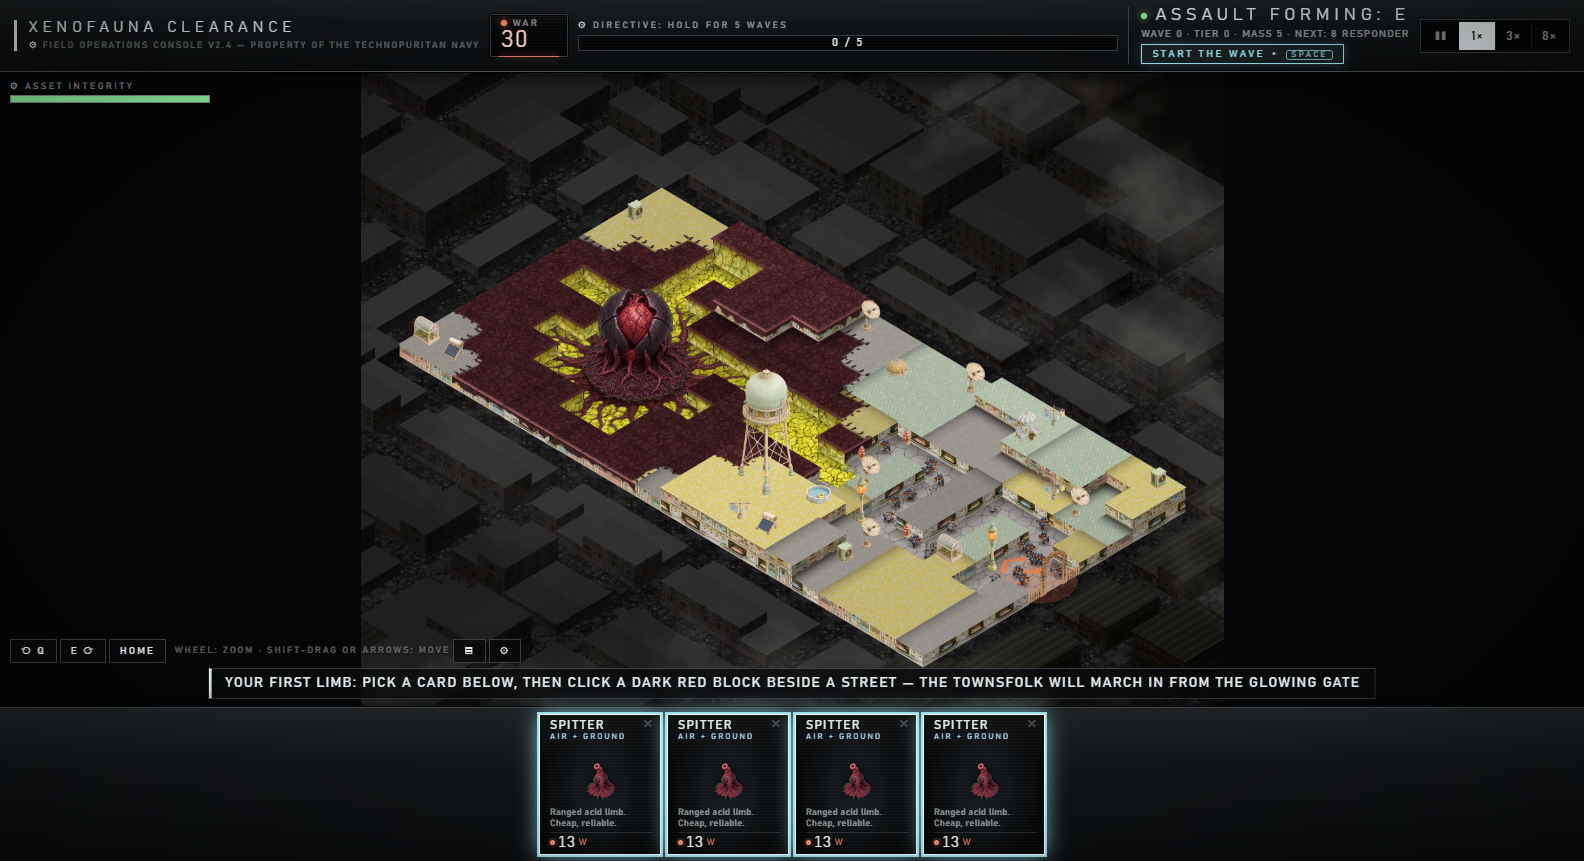
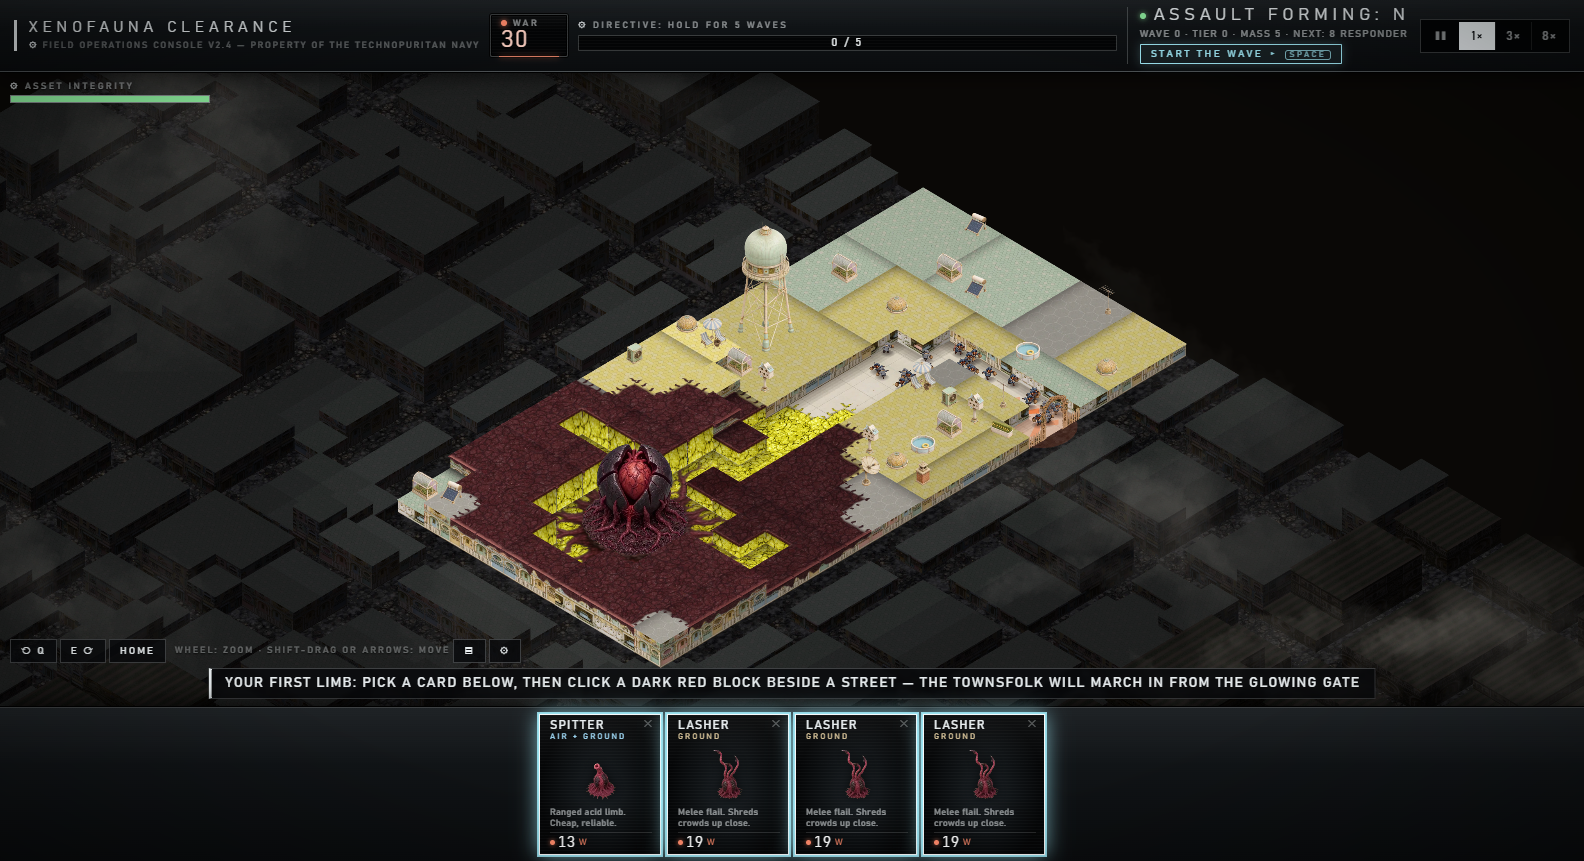
Broodfall: bug hunt results page (notes/screens/2026-11-22/bughunt.html) and its pictures
Before/after for each fix, the landing handoff checked at three sizes, the desktop start check (PASS) and the notes.

diff --git a/games/broodfall/notes/screens/2026-11-22/bughunt.html b/games/broodfall/notes/screens/2026-11-22/bughunt.html
@@ -1,0 +1,124 @@
+<!doctype html>
+<html lang="en">
+<head>
+<meta charset="utf-8">
+<meta name="viewport" content="width=device-width, initial-scale=1">
+<title>Broodfall bug hunt</title>
+<style>
+  :root { --bg: #111214; --card: #1b1d21; --ink: #e9e6df; --dim: #a3a09a; --line: #2e3137; --ok: #4fbf72; --warn: #e0a64b; --bad: #e3625a; }
+  * { box-sizing: border-box; }
+  body { margin: 0; background: var(--bg); color: var(--ink); font: 16px/1.5 "Segoe UI", system-ui, sans-serif; }
+  main { max-width: 1500px; margin: 0 auto; padding: 28px 20px 60px; }
+  h1 { font-size: 28px; margin: 0 0 4px; letter-spacing: 1px; }
+  h2 { font-size: 21px; margin: 44px 0 6px; border-top: 1px solid var(--line); padding-top: 22px; }
+  .sub { color: var(--dim); margin: 0 0 22px; }
+  .short { background: var(--card); border: 1px solid var(--line); border-radius: 8px; padding: 14px 18px; margin-bottom: 26px; }
+  table { border-collapse: collapse; width: 100%; background: var(--card); border-radius: 8px; overflow: hidden; }
+  th, td { text-align: left; padding: 10px 14px; border-bottom: 1px solid var(--line); vertical-align: top; }
+  th { color: var(--dim); font-weight: 600; font-size: 13px; letter-spacing: 1px; text-transform: uppercase; }
+  .v { font-weight: 700; white-space: nowrap; }
+  .v.ok { color: var(--ok); } .v.warn { color: var(--warn); } .v.bad { color: var(--bad); }
+  .pair { display: grid; grid-template-columns: 1fr 1fr; gap: 14px; margin-top: 12px; }
+  .pair.one { grid-template-columns: 1fr; }
+  figure { margin: 0; background: var(--card); border: 1px solid var(--line); border-radius: 8px; padding: 10px; }
+  figure img { width: 100%; display: block; border-radius: 4px; }
+  figcaption { font-size: 13px; color: var(--dim); margin-top: 8px; }
+  .tag { display: inline-block; font-size: 12px; font-weight: 700; letter-spacing: 1px; padding: 2px 8px; border-radius: 4px; margin-right: 6px; }
+  .tag.b { background: #4a2523; color: #ffb4ad; } .tag.a { background: #1f4229; color: #a8f0bd; } .tag.x { background: #3d3420; color: #f1d39b; }
+  ul { margin: 6px 0; padding-left: 20px; }
+  .tech { color: var(--dim); font-size: 13px; margin-top: 50px; }
+  @media (max-width: 800px) { .pair { grid-template-columns: 1fr; } }
+</style>
+</head>
+<body>
+<main>
+<h1>Broodfall: bug hunt</h1>
+<p class="sub">November 22, 2026. I played it in the real page with real clicks and keys at 1366×768, 1920×1080 and your 2781×1401: a new campaign through mission 1, the reveal, the ship and a deployment, skirmishes through the organ stage and a district draft, Settings, save and exit, resume, every room aboard, the codex, comics and a full run to victory. No console errors and no missing files anywhere.</p>
+
+<div class="short">
+<b>Short version.</b> The biggest problem was the board itself. It was a fixed-size picture shrunk into the middle of the window, so on your screen it used less than half the width. It now fills the window, and the landing film still lands exactly on it. I also fixed five smaller things where the screen said something wrong or hid what you were doing. Everything is pushed to main. Nothing here needs a decision from you.
+</div>
+
+<table>
+<tr><th>#</th><th>Problem</th><th>Verdict</th></tr>
+<tr><td>1</td><td>The board did not fill the window: a fixed picture in the middle with black on both sides (1360 of 2781 pixels across on your screen)</td><td class="v ok">Fixed</td></tr>
+<tr><td>1b</td><td>After fix 1, the landing film's last frame would have landed in the wrong place on the board, which would have brought back the snap you reported</td><td class="v ok">Fixed</td></tr>
+<tr><td>2</td><td>On the organ stage the summary said "GUT LV3" while the Gut's card said LV 1, with nothing explaining the difference</td><td class="v ok">Fixed</td></tr>
+<tr><td>3</td><td>While a district draft was open, the line under the board said "WAVE SETUP: place limbs, then START THE WAVE (Space)", but Space does nothing there</td><td class="v ok">Fixed</td></tr>
+<tr><td>4</td><td>The "WAVE 3 CLEARED · +57 CHYME" banner sat on top of the district you were placing</td><td class="v ok">Fixed</td></tr>
+<tr><td>5</td><td>After you change the turn keys in Settings, the turn buttons still said Q and E</td><td class="v ok">Fixed</td></tr>
+<tr><td>6</td><td>At 1366×768 the top bar cut words off: "DIRECTIVE: DESTROY THE…" and "NEXT: 8 RESPON…"</td><td class="v ok">Fixed</td></tr>
+<tr><td>—</td><td>Two automatic tests were failing because of the other session's unfinished Rumen work</td><td class="v ok">Fixed by that session; all tests pass</td></tr>
+</table>
+
+<h2>1. The board now fills the window</h2>
+<p>The board was always drawn as a fixed 1360×1000 picture and then shrunk to fit, so on wide windows it sat in a column with black on both sides. On your screen it used 1360 of 2781 pixels across. Now the board fills the window at every size, and the city looks bigger on your screen. Clicking, zooming and turning work the same as before, and it runs just as smoothly: 60 frames a second in a wave on your window size, the same as the old fixed board.</p>
+<div class="pair">
+  <figure><img src="bughunt-01-board-2781-BEFORE.jpg" alt=""><figcaption><span class="tag b">BEFORE</span>2781×1401, your screen: the board in a column in the middle</figcaption></figure>
+  <figure><img src="bughunt-01-board-2781-AFTER.jpg" alt=""><figcaption><span class="tag a">AFTER</span>2781×1401: the board fills the window</figcaption></figure>
+  <figure><img src="bughunt-01-board-1366-BEFORE.jpg" alt=""><figcaption><span class="tag b">BEFORE</span>1366×768: the board was 711 pixels wide</figcaption></figure>
+  <figure><img src="bughunt-01-board-1366-AFTER.jpg" alt=""><figcaption><span class="tag a">AFTER</span>1366×768</figcaption></figure>
+</div>
+
+<h2>1b. The landing film still lands exactly on the board</h2>
+<p>Each landing film ends on a picture of the board as the old fixed board showed it. When the film ends, that picture has to sit exactly on top of the live board, or you get the snap you reported earlier today. Fix 1 changed the board's size, so I changed the handoff to work from how large the board is actually drawn now, with the film's crater pinned on the live meteor. To check it, I laid the film's last frame over the live board at half strength. The pictures below show where the old calculation would have put it and where the new one does. Where the two line up exactly, you see one board and no double image.</p>
+<div class="pair">
+  <figure><img src="bughunt-01b-landing-1920-unadjusted.jpg" alt=""><figcaption><span class="tag x">OLD CALCULATION ON THE NEW BOARD</span>1920×1080: a double image, the film far too big and in the wrong place</figcaption></figure>
+  <figure><img src="bughunt-01b-landing-1920-AFTER.jpg" alt=""><figcaption><span class="tag a">AFTER</span>1920×1080: the film's last frame (inside the green box) lies exactly on the board</figcaption></figure>
+  <figure><img src="bughunt-01b-landing-2781-unadjusted.jpg" alt=""><figcaption><span class="tag x">OLD CALCULATION ON THE NEW BOARD</span>2781×1401</figcaption></figure>
+  <figure><img src="bughunt-01b-landing-2781-AFTER.jpg" alt=""><figcaption><span class="tag a">AFTER</span>2781×1401: exact</figcaption></figure>
+</div>
+<div class="pair one">
+  <figure><img src="bughunt-01b-landing-1366-handoff.jpg" alt=""><figcaption><span class="tag a">AFTER</span>1366×768, mid-handoff, captured while the film fades into the board: you cannot see where one ends and the other begins</figcaption></figure>
+</div>
+
+<h2>2. The organ stage now says why an organ is above its card's level</h2>
+<p>In mission 1 the Gut sits on a Sewer Main, which it favours, and that adds two levels. Its card showed the level you bought (LV 1), while the summary under the board showed the total (LV3), so the two numbers looked like a mistake. The summary now says where the extra levels come from: "GUT LV3 (LV1 bought, +2 from the Sewer Main)". A heart's zone is named the same way.</p>
+<div class="pair">
+  <figure><img src="bughunt-02-organ-summary-BEFORE.jpg" alt=""><figcaption><span class="tag b">BEFORE</span>The Bone Forge card says LV 1 and the summary says "BONE FORGE LV2", with no reason given</figcaption></figure>
+  <figure><img src="bughunt-02-organ-summary-AFTER.jpg" alt=""><figcaption><span class="tag a">AFTER</span>"GUT LV3 (LV1 bought, +2 from the Sewer Main)"</figcaption></figure>
+</div>
+
+<h2>3. The line under the district draft no longer tells you to start the wave</h2>
+<p>While "The body is ready to grow" was open, the line under the board still showed the wave-setup instruction from before the wave. It now says to choose a district and place it, and it updates whenever the game moves to the next stage.</p>
+<div class="pair">
+  <figure><img src="bughunt-03-hint-line-BEFORE.png" alt=""><figcaption><span class="tag b">BEFORE</span>"WAVE SETUP: place limbs, then START THE WAVE (Space)" under the draft</figcaption></figure>
+  <figure><img src="bughunt-03-hint-line-AFTER.png" alt=""><figcaption><span class="tag a">AFTER</span>"THE BODY IS READY TO GROW: choose a district above, then place it on the board (R turns it)"</figcaption></figure>
+  <figure><img src="bughunt-03-draft-hint-BEFORE.jpg" alt=""><figcaption><span class="tag b">BEFORE</span>The whole screen (mission 1)</figcaption></figure>
+  <figure><img src="bughunt-03-draft-hint-AFTER.jpg" alt=""><figcaption><span class="tag a">AFTER</span>The whole screen (skirmish)</figcaption></figure>
+</div>
+
+<h2>4. The wave banner no longer covers the district you are placing</h2>
+<p>When you picked up a district card, the "wave cleared" banner stayed across the middle of the board, right over the green district you were placing. Picking up the card now clears the banner.</p>
+<div class="pair">
+  <figure><img src="bughunt-04-banner-over-ghost-BEFORE.jpg" alt=""><figcaption><span class="tag b">BEFORE</span>The banner over the district in hand</figcaption></figure>
+  <figure><img src="bughunt-04-banner-over-ghost-AFTER.jpg" alt=""><figcaption><span class="tag a">AFTER</span>The same moment, with the board clear</figcaption></figure>
+</div>
+
+<h2>5. The turn buttons show the keys you chose</h2>
+<p>In Settings I changed the turn key from Q to Z. Z turned the view and Q stopped doing anything, but the buttons beside the board still said Q. They now show the keys you set, and so does the hint for the big limbs.</p>
+<div class="pair">
+  <figure><img src="bughunt-05-turn-keys-BEFORE.png" alt=""><figcaption><span class="tag b">BEFORE</span>Turn key set to Z, button still says Q</figcaption></figure>
+  <figure><img src="bughunt-05-turn-keys-AFTER.png" alt=""><figcaption><span class="tag a">AFTER</span>The button says Z</figcaption></figure>
+</div>
+
+<h2>6. The top bar at 1366×768 shows the directive and the next wave in full</h2>
+<p>The game's title kept its space and the important words were cut off. On smaller windows the title now gives up its space first, and the directive and the wave line wrap onto two lines instead of being cut.</p>
+<div class="pair one">
+  <figure><img src="bughunt-06-topbar-1366-BEFORE.png" alt=""><figcaption><span class="tag b">BEFORE</span>"DIRECTIVE: DESTROY THE…", "NEXT: 8 RESPON…"</figcaption></figure>
+  <figure><img src="bughunt-06-topbar-1366-AFTER.png" alt=""><figcaption><span class="tag a">AFTER</span>"DESTROY THE ROYAL", "NEXT: 8 RESPONDER"</figcaption></figure>
+</div>
+
+<h2>Checked and working, no change needed</h2>
+<ul>
+  <li>Settings, each changed by clicking during a run: the larger text sizes (nothing pushed off screen at 1366), changing the turn keys, edge scrolling, the speed a deployment starts at, and Save and Exit followed by Resume Deployment (same wave, limbs and meat).</li>
+  <li>The organ stage: growing organs by clicking, leveling by clicking the card and by clicking the organ on the board (chyme taken each time), and Space going one step at a time from the organ stage to the surface to the wave.</li>
+  <li>Placing a district with the mouse on the green slot.</li>
+  <li>The campaign from start to finish: new campaign, mission 1 (both won and lost), the report, the reveal, the ship, a deployment, the debrief and back aboard. Every room aboard opens without errors, as do the codex, comics and settings from the ship, and the menu's Continue and Codex.</li>
+  <li>A whole run to victory at your window size with no errors. The end-of-run report shows its picture of the board correctly at the new board size.</li>
+</ul>
+
+<p class="tech">For an engineer or an AI: the technical write-up is C:\Users\Merry\dev\space-derelict\games\broodfall\notes\2026-11-22-bughunt.md. Commits 1eb1e4c0, 74263ebb, 9a2bda2a, 1c4dd372, d47a714f, 965246a7 and the commit that adds this page.</p>
+</main>
+</body>
+</html>

diff --git a/games/broodfall/notes/2026-11-22-bughunt.md b/games/broodfall/notes/2026-11-22-bughunt.md
@@ -67,10 +67,14 @@ progress of the other session (`tests/under-shapes.test.ts`: the Rumen has no ba
   measured the same (59.8 fps). A whole autoplayed run (seed 5, 8x) won at wave 12 with no console error.
 
 ## Not mine to fix: reported
-- `tests/mules.test.ts` "grows a sac and roots mules in a real run" fails from the Rumen work-in-progress commit 5e8aca5b
-  (passes at 30a551ee and at the chyme commit 188bb0db): the scripted player no longer grows a Mule Sac in that run.
-  The Rumen / organ policy is the other session's; left to it.
-- `tests/under-shapes.test.ts`: the Rumen has no baked picture yet (same session's work).
+- `tests/mules.test.ts` "grows a sac and roots mules in a real run" failed from the Rumen work-in-progress commit 5e8aca5b
+  (passes at 30a551ee and at the chyme commit 188bb0db), and `tests/under-shapes.test.ts` (the Rumen had no picture).
+  Both pass since the other session's d265b1f8 ("the Rumen finished"). After all fixes here: `npx tsc --noEmit` clean,
+  `npx vitest run` 84 of 84 files pass.
+
+## The desktop game
+- `node tools/shot-desktop.mjs` with every fix in: PASS (the window opens, the game page at 8 s, the opening film plays
+  with sound, no BEGIN card): `notes/screens/2026-11-22/desktop-film.png`, `desktop-after-film.png`.
 
 ## Checked and working (no change)
 - Settings, each changed by clicks in a run: text size LARGER (HUD scaled, nothing off screen at 1366x768), turn-key
